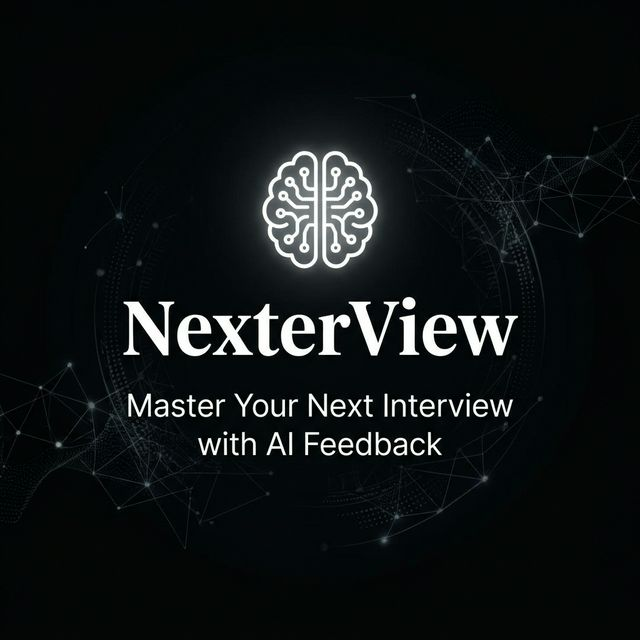
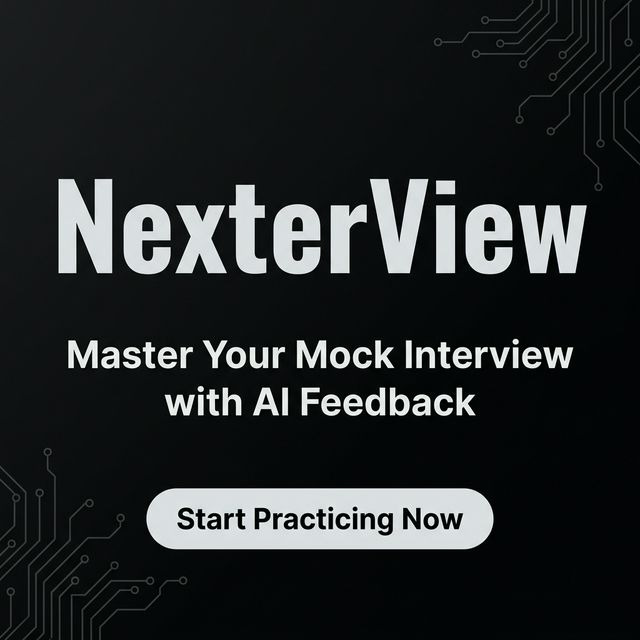
feat: refine SEO metadata lengths and add CTA to OG image

diff --git a/src/app/layout.tsx b/src/app/layout.tsx
@@ -19,7 +19,7 @@ const dmSans = DM_Sans({
 });
 
 export const metadata: Metadata = {
-  title: "NexterView | Master Your Mock Interview with AI-Powered Feedback",
+  title: "NexterView | Master Mock Interviews with AI Feedback",
   description:
     "Elevate your career with NexterView. Practice role-specific mock interviews with AI, receive instant actionable feedback, and track your readiness scores today.",
   metadataBase: new URL("https://nexter-view.vercel.app"),
@@ -29,7 +29,7 @@ export const metadata: Metadata = {
     apple: "/icon.svg",
   },
   openGraph: {
-    title: "NexterView | Master Your Mock Interview with AI-Powered Feedback",
+    title: "NexterView | Master Mock Interviews with AI Feedback",
     description:
       "Elevate your career with NexterView. Practice role-specific mock interviews with AI, receive instant actionable feedback, and track your readiness scores today.",
     url: "https://nexter-view.vercel.app",
@@ -46,7 +46,7 @@ export const metadata: Metadata = {
   },
   twitter: {
     card: "summary_large_image",
-    title: "NexterView | Master Your Mock Interview with AI-Powered Feedback",
+    title: "NexterView | Master Mock Interviews with AI Feedback",
     description:
       "Elevate your career with NexterView. Practice role-specific mock interviews with AI, receive instant actionable feedback, and track your readiness scores today.",
     images: ["/og-image.png"],
